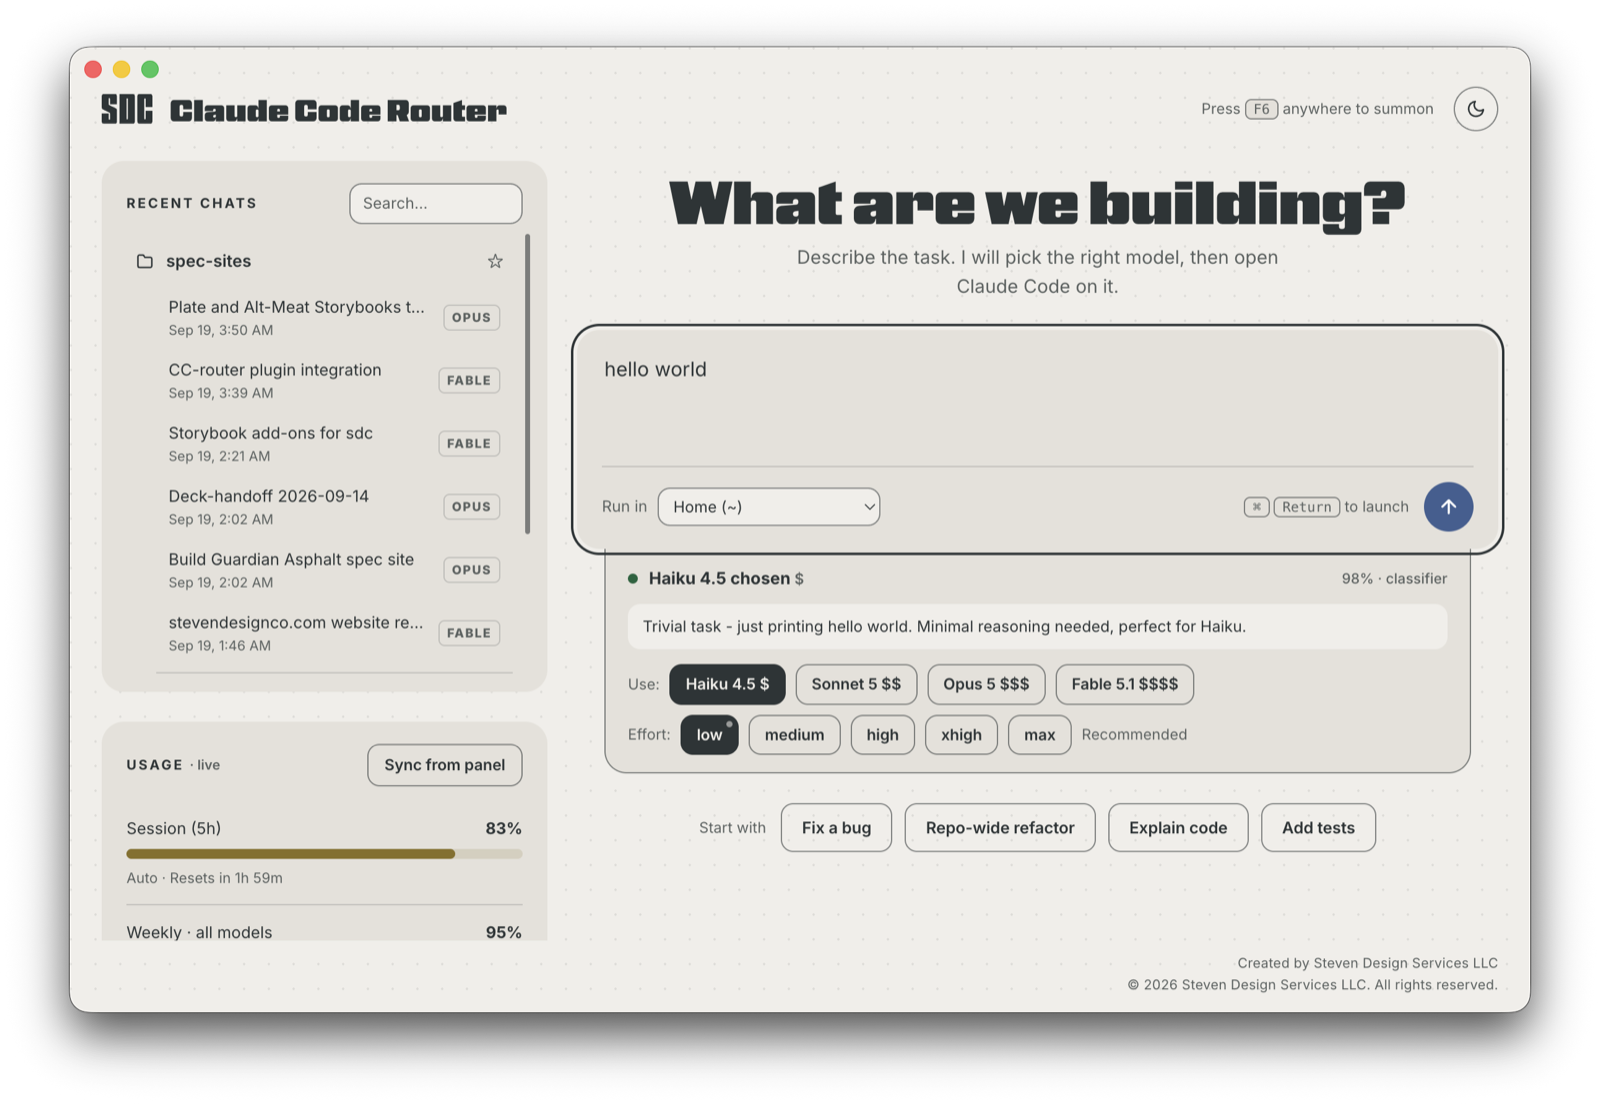
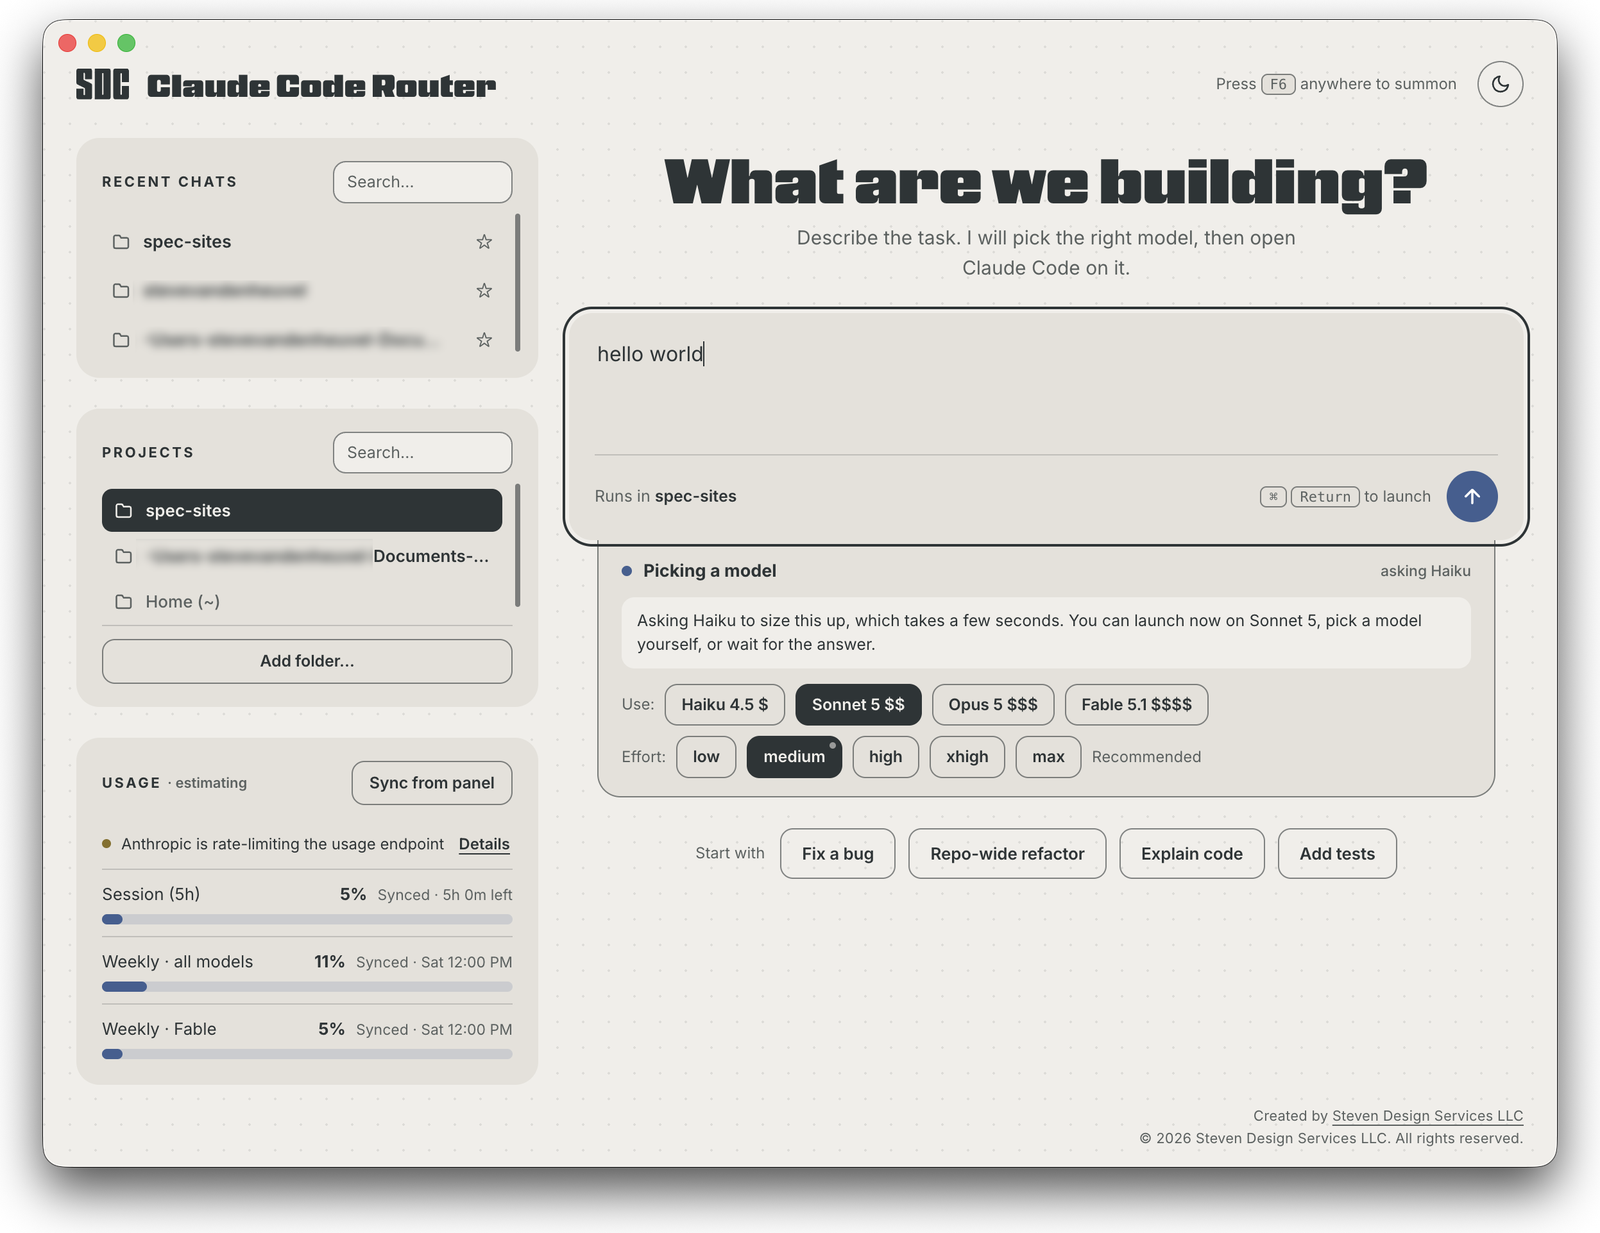
Replace the real-use screenshots with captures of the current build
The three shots of the app in real use predated the Projects panel, the
pinned usage meter, and the "Runs in" label, so they showed a layout that no
longer exists. These are the same three views on the current build, plus a
fresh crop of the usage panel.

Checked before committing, since these are real captures in a public repo:
the folder names carrying a username are blurred, and the blur is a complete
smear at 4x with no character shapes left. No tokens, keys, addresses, or
client names appear anywhere in frame. Each file was re-encoded to drop the
embedded Adobe XMP block, which carried the editing tool and a timezone, and
trimmed to the window.

The alt text was describing the old images: different models, different
percentages, a red week that is now 11%. Rewritten to match what each capture
actually shows, including the usage panel, which happens to catch the new
rate-limit fallback rather than the happy path and now says so.

Changed region(s): [[0.0, 0.0, 1.0, 0.9855], [0.5312, 0.4312, 0.5625, 0.462], [0.4375, 0.7391, 0.4688, 0.7699]]

diff --git a/README.md b/README.md
@@ -147,14 +147,14 @@ generation is a one-file change.
 
 ![The version recommendation and the routing card, both out from under the input box](docs/05-version-drawer.png)
 
-The screenshots above use demo data. The two below are the app in real use, with a
-live usage meter and real chat history.
+The screenshots above use demo data. The three below are the app in real use, on real
+chat history, with folder names blurred.
 
-![The app in use, waiting for a prompt](docs/06-real-compose.png)
+![The app waiting for a prompt: Recent chats and Projects in the rail, the usage panel pinned under them, and the composer naming the folder the next session will run in](docs/06-real-compose.png)
 
-![The app in use: a short prompt routed to Haiku 4.5 at low effort](docs/07-real-routed.png)
+![A prompt being sized up: the card reads "Picking a model, asking Haiku", Sonnet 5 and medium effort are preselected so you can launch without waiting, and every tier is one click away](docs/07-real-routed.png)
 
-![The app in use: a live Claude Code session on Sonnet 5 at medium effort, in its own tab](docs/09-real-session.png)
+![A live Claude Code session on Haiku 4.5 running in its own tab inside the app, with the rail and the usage panel still visible beside it](docs/09-real-session.png)
 
 ## The plugin
 
@@ -383,7 +383,11 @@ session, the week, the weekly Fable limit, and the week's split by surface. The 
 Code OAuth token is read from the macOS Keychain, used only in the request header, and
 never logged, stored, or refreshed by this app. Claude Code owns the login.
 
-<img src="docs/08-real-usage.png" alt="The usage panel in real use: the 5-hour session at 83%, the week at 95% in red, and the weekly Fable limit at 83%, each with its reset time" width="491" />
+<img src="docs/08-real-usage.png" alt="The usage panel with the live endpoint unavailable: a line reading “Anthropic is rate-limiting the usage endpoint” with a Details link, above the session at 5%, the week at 11%, and the weekly Fable limit at 5%, each showing where its number came from and when it resets" width="491" />
+
+The capture above is the fallback in action rather than the happy path: Anthropic was
+rate-limiting the endpoint, so the panel says so in one line, marks each row as synced
+rather than live, and leaves the numbers readable instead of blanking them.
 
 That endpoint is not a documented public API, so there are two fallbacks. First, the
 `anthropic-ratelimit-unified-5h-*` and `-7d-*` headers on a one-token request, which
